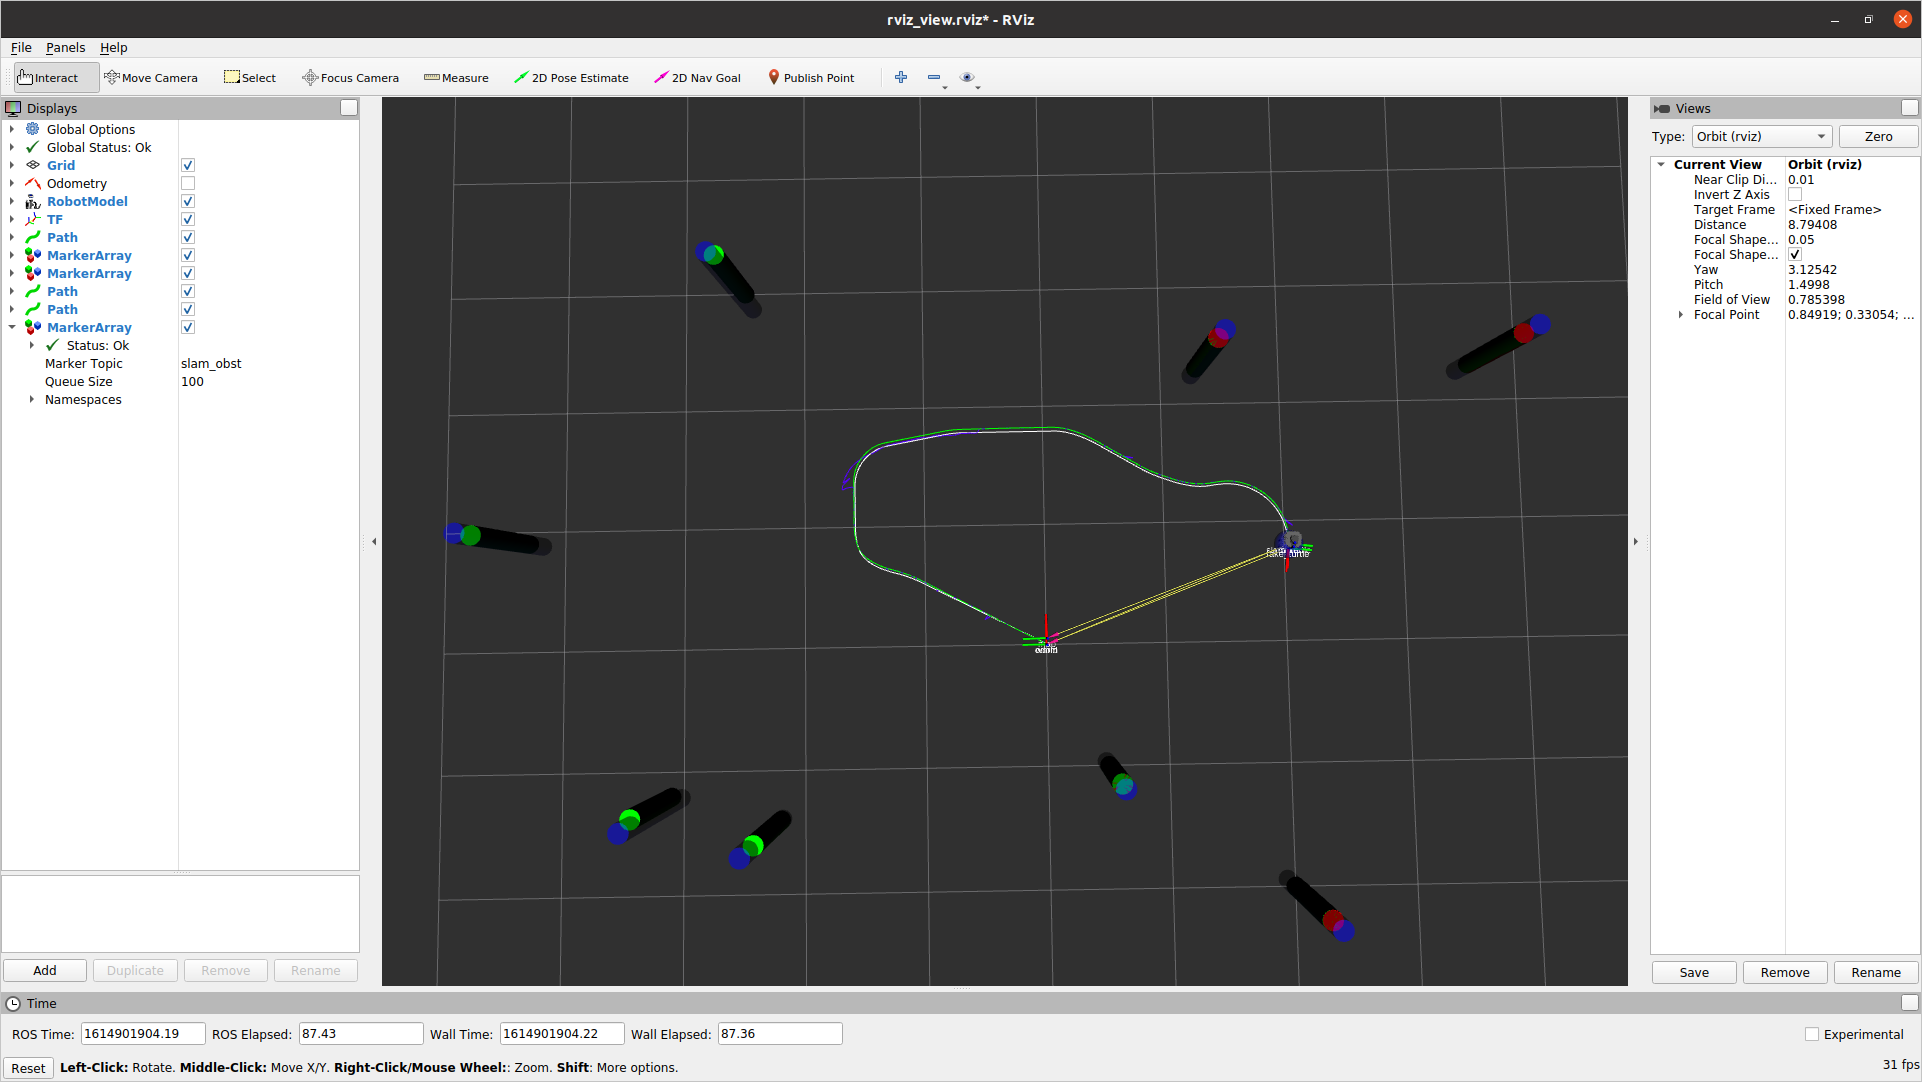
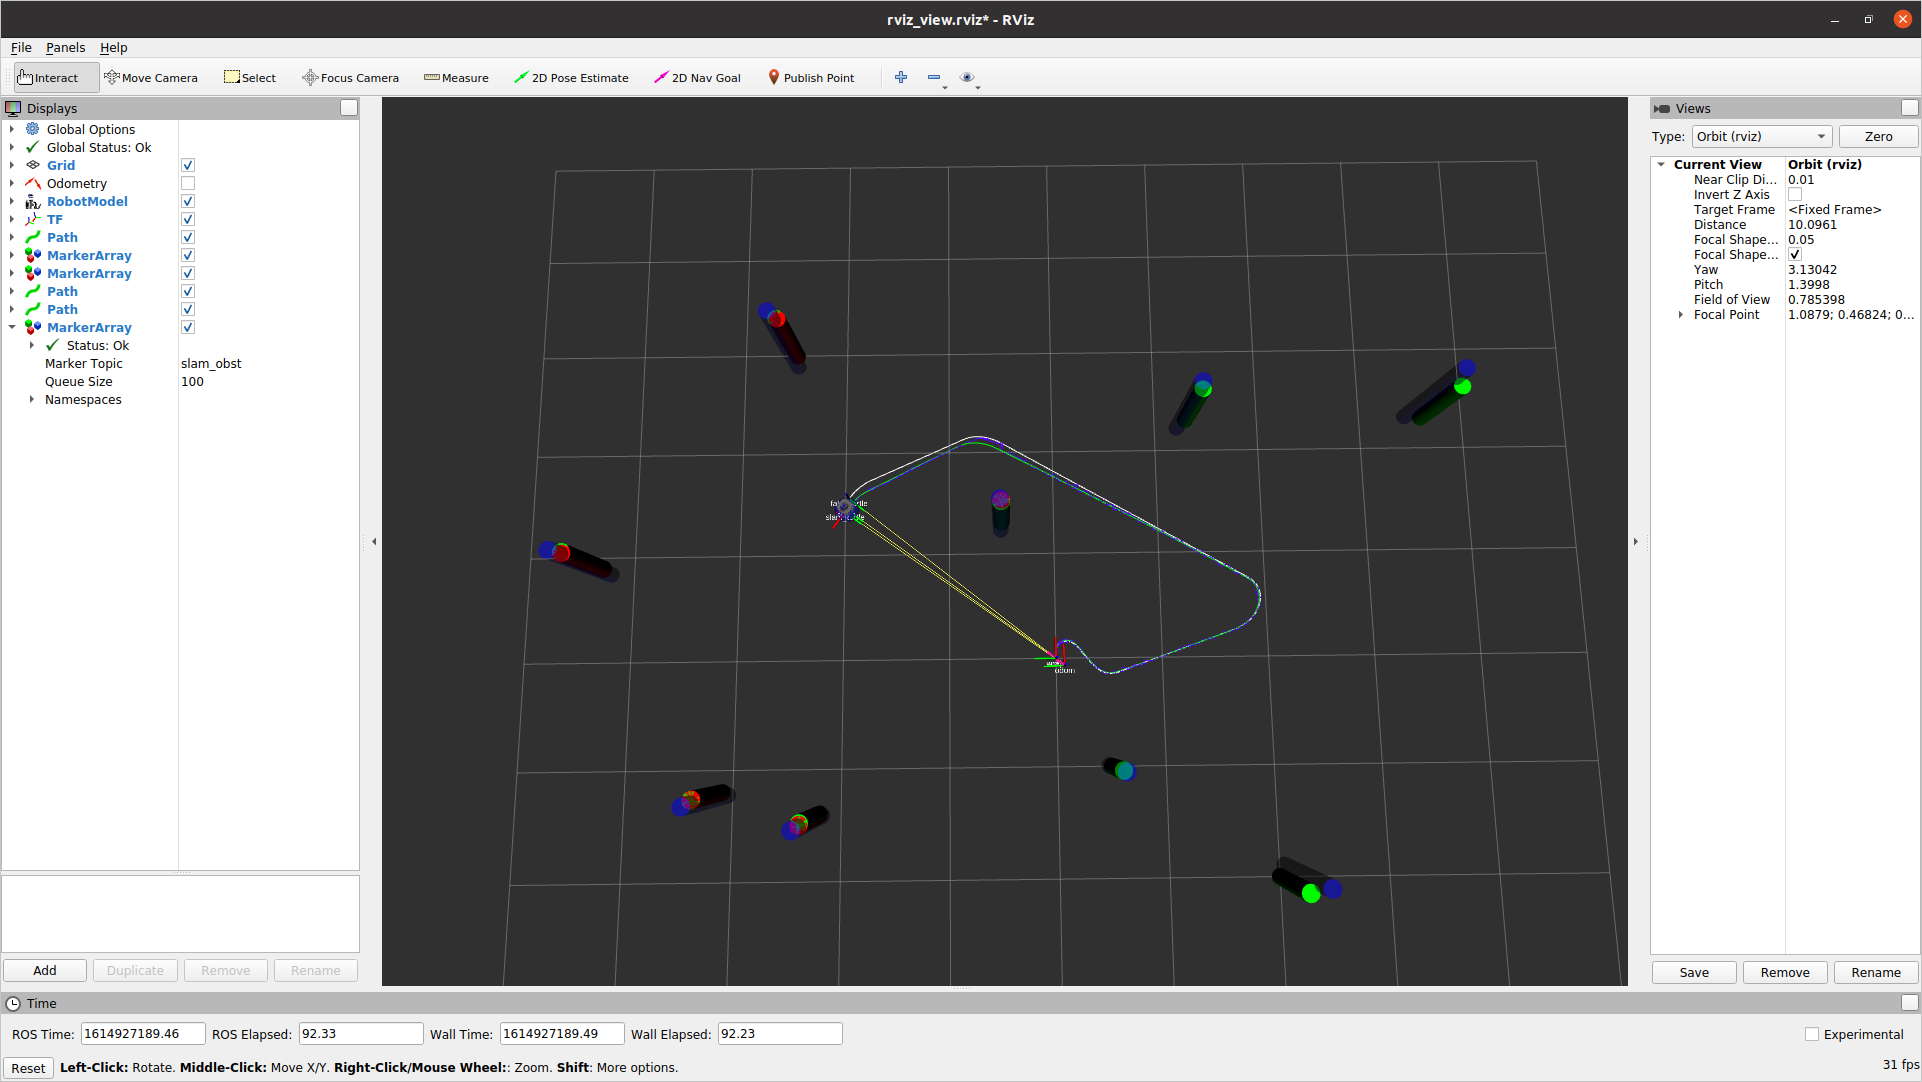
task l - fixed tf

diff --git a/nuslam/src/slam.cpp b/nuslam/src/slam.cpp
@@ -25,17 +25,13 @@
  * + right_wheel_joint (string) ~ name of robot right wheel joint  
  * + left_wheel_joint_slip (string) ~ name of robot left wheel joint with noises  
  * + right_wheel_joint_slip (string) ~ name of robot right wheel joint with noises  
- * + noise_mean (double) ~ mean of Gaussian noise for commanded twist   
- * + noise_variance (double) ~ variance of Gaussian noise for commanded twist  
- * + slip_min (double) ~ minimum uniform radom noise ratio for slipping  
- * + slip_max (double) ~ maximum uniform radom noise ratio for slipping   
  * + x_coords (double list) ~ x locations of obstacles in world  
  * + y_coords (double list) ~ y locations of obstacles in world  
  * + covariance_matrix_0 (double list) ~ first row of covariance matrix of obstacle lcoations   
  * + covariance_matrix_1 (double list)~ second row of covariance matrix of obstacle lcoations  
  * + obst_radius (double) ~ radius of tube obstacle   
- * + obst_max_dist (double) ~ radius of observation area for robot; obstacles within this range will be used to publish sensor information   
- * + tube_var (double) ~ variance of Gaussian noise for obstacles   
+ * + state_var (double) ~ variance of Gaussian noise for Kalman states   
+ * + sensor_var (double) ~ variance of Gaussian noise for sensors   
  * 
  * 
  * 
@@ -73,28 +69,24 @@ class Handler {
     std::string body_frame_id;
     std::string left_wheel_joint;
     std::string right_wheel_joint;
-    double noise_mean = 0.0;
-    double noise_variance = 0.01;
-    double slip_min = -0.05;
-    double slip_max = 0.05;
     std::vector<double> x_coords;
     std::vector<double> y_coords;
     std::vector<std::vector<double>> covariance_matrix = {{1.0, 1.0}, {1.0, 1.0}};;
     double obst_radius = 0.0762;
-    double obst_max_dist = 2.0;
-    double tube_var = 0.1;
     double rad_left_thresh = 0.0;
     double rad_right_thresh = 0.0;
     double rad_left_old = 0.0;
     double rad_right_old = 0.0;
     double rad_left_slip_old = 0.0;
     double rad_right_slip_old = 0.0;
+    double state_var = 0.01;
+    double sensor_var = 0.001;
     arma::vec seen;
     arma::vec init_map_state;
     rigid2d::DiffDrive odom;
     rigid2d::DiffDrive odom_slip;
     kalman::StateVec states;
-    arma::vec world_map_tf = arma::vec {0, 0, 0};
+    arma::vec map_odom_tf = arma::vec {0, 0, 0};
     arma::vec measure_d;
     arma::vec measure_angle;
     arma::vec last_map_state;
@@ -125,7 +117,7 @@ class Handler {
 /// \brief Init Handler class
 /// \param n - slam NodeHandle
 Handler::Handler(ros::NodeHandle & n) : odom(wheel_base/2, wheel_radius), \
-              odom_slip(wheel_base/2, wheel_radius), states(init_map_state, noise_variance, tube_var) {
+              odom_slip(wheel_base/2, wheel_radius), states(init_map_state, state_var, sensor_var) {
   joint_states_sub = n.subscribe("joint_states", 10, &Handler::joint_states_sub_callback, this);
   odom_pub = n.advertise<nav_msgs::Odometry>("odom", 10);
   set_pose_service = n.advertiseService("set_pose", &Handler::set_pose_service_callback, this);
@@ -142,7 +134,7 @@ Handler::Handler(ros::NodeHandle & n) : odom(wheel_base/2, wheel_radius), \
     find_param(n);
 
     // set noise variance for Kalman slam
-    states.set_noises(noise_variance, tube_var);
+    states.set_noises(state_var, sensor_var);
 
     // initialize Kalman slam
     if (init) {
@@ -208,8 +200,8 @@ void Handler::pub_odom() {
   // publish slam turtle path
   path_pose.header.stamp = ros::Time::now();
   arma::vec robot_state = states.get_robot_state();
-  rigid2d::Vector2D v {world_map_tf(1), world_map_tf(2)};
-  rigid2d::Transform2D trans {v, world_map_tf(0)};
+  rigid2d::Vector2D v {map_odom_tf(1), map_odom_tf(2)};
+  rigid2d::Transform2D trans {v, map_odom_tf(0)};
   rigid2d::Vector2D vr {robot_state(1), robot_state(2)};
   rigid2d::Transform2D trans_r {vr, robot_state(0)};
   rigid2d::Transform2D result = trans * trans_r;
@@ -241,17 +233,13 @@ void Handler::find_param(ros::NodeHandle & n) {
   n.param("body_frame_id", body_frame_id, default_base);
   n.param("left_wheel_joint", left_wheel_joint, default_left);
   n.param("right_wheel_joint", right_wheel_joint, default_right);
-  n.param("noise_mean", noise_mean, 0.0);
-  n.param("noise_variance", noise_variance, 0.01);
-  n.param("slip_min", slip_min, -0.05);
-  n.param("slip_max", slip_max, 0.05);
   n.param("x_coords", x_coords, default_x_coords);
   n.param("y_coords", y_coords, default_y_coords);
   n.param("covariance_matrix_0", covariance_matrix[0], default_cm[0]);
   n.param("covariance_matrix_1", covariance_matrix[1], default_cm[1]);
   n.param("obst_radius", obst_radius, 0.0762);
-  n.param("obst_max_dist", obst_max_dist, 2.0);
-  n.param("tube_var", tube_var, 0.01);
+  n.param("state_var", state_var, 0.01);
+  n.param("sensor_var", sensor_var, 0.001);
 
 
   init_map_state = arma::vec (x_coords.size()*2);
@@ -304,14 +292,14 @@ void Handler::joint_states_sub_callback(const sensor_msgs::JointState & msg) {
 
 /// \brief Broadcast the transform between frames:
 ///     odom -> odometry turtle 
-///     world -> map
-///     map -> slam turtle
-///     map -> base_footprint
+///     map -> odom
+///     odom -> slam turtle
+///     odom -> base_footprint
 void Handler::tf_broadcast() {
   // odom -> odometry turtle 
   geometry_msgs::TransformStamped transformStamped;
   transformStamped.header.stamp = ros::Time::now();
-  transformStamped.header.frame_id = odom_frame_id;
+  transformStamped.header.frame_id = "world";
   transformStamped.child_frame_id = "fake_turtle";
   rigid2d::Transform2D config = odom.config();
   transformStamped.transform.translation.x = config.x();
@@ -327,12 +315,12 @@ void Handler::tf_broadcast() {
 
   // world -> map
   transformStamped.header.stamp = ros::Time::now();
-  transformStamped.header.frame_id = "world";
-  transformStamped.child_frame_id = "map";
-  transformStamped.transform.translation.x = world_map_tf(1);
-  transformStamped.transform.translation.y = world_map_tf(2);
+  transformStamped.header.frame_id = "map";
+  transformStamped.child_frame_id = "odom";
+  transformStamped.transform.translation.x = map_odom_tf(1);
+  transformStamped.transform.translation.y = map_odom_tf(2);
   transformStamped.transform.translation.z = 0.0;
-  q.setRPY(0, 0,  world_map_tf(0));
+  q.setRPY(0, 0,  map_odom_tf(0));
   transformStamped.transform.rotation.x = q.x();
   transformStamped.transform.rotation.y = q.y();
   transformStamped.transform.rotation.z = q.z();
@@ -341,7 +329,7 @@ void Handler::tf_broadcast() {
 
   // map -> slam turtle
   transformStamped.header.stamp = ros::Time::now();
-  transformStamped.header.frame_id = "map";
+  transformStamped.header.frame_id = "odom";
   transformStamped.child_frame_id = "slam_turtle";
   arma::vec robot_state = states.get_robot_state();
   transformStamped.transform.translation.x = robot_state(1);
@@ -356,7 +344,7 @@ void Handler::tf_broadcast() {
 
   // map -> base_footprint
   transformStamped.header.stamp = ros::Time::now();
-  transformStamped.header.frame_id = "map";
+  transformStamped.header.frame_id = "odom";
   transformStamped.child_frame_id = body_frame_id;
   transformStamped.transform.translation.x = robot_state(1);
   transformStamped.transform.translation.y = robot_state(2);
@@ -389,7 +377,7 @@ void Handler::pub_slam_obst_marker() {
   arma::vec map_state = states.get_map_state();
   for (unsigned i = 0; i < map_state.size()/2; i++) {
     visualization_msgs::Marker marker;
-    marker.header.frame_id = "map";
+    marker.header.frame_id = "odom";
     marker.header.stamp = ros::Time();
     marker.ns = "slam_obst";
     marker.id = i;
@@ -430,11 +418,11 @@ void Handler::align_tf() {
   rigid2d::Transform2D T_map_robot { v, robot_state(0)};
   rigid2d::Transform2D config = odom_slip.config();
 
-  world_map_tf = {0, 0, 0};
-  world_map_tf.fill(0);
+  map_odom_tf = {0, 0, 0};
+  map_odom_tf.fill(0);
 
-  // T_odom_map = config * T_map_robot.inv();
-  // ROS_INFO_STREAM("T_odom_map = " << T_odom_map);
+  T_odom_map = config * T_map_robot.inv();
+  // ROS_INFO_STREAM("T_odom_map = " << T_odom_map.inv());
 
   unsigned n = 0;
   bool first_obst = true;
@@ -451,6 +439,7 @@ void Handler::align_tf() {
 
       
       if (j >= measure_d.size() && first_obst) {   // only one obstacle is seen
+          ROS_INFO_STREAM("one obst");
           mx = map_state(2*i);
           my = map_state(2*i+1);
           ox = x_coords[i];
@@ -482,9 +471,9 @@ void Handler::align_tf() {
       rigid2d::Transform2D To {v_odom, odom_ang};
       rigid2d::Transform2D result =  To * Tm.inv();
 
-      world_map_tf(0) += result.theta();
-      world_map_tf(1) += result.x();
-      world_map_tf(2) += result.y();
+      map_odom_tf(0) += result.theta();
+      map_odom_tf(1) += result.x();
+      map_odom_tf(2) += result.y();
 
       first_obst = false;
     }
@@ -492,11 +481,11 @@ void Handler::align_tf() {
 
   // average transform
   if (n > 0) {
-    world_map_tf(0) /= n;
-    world_map_tf(1) /= n;
-    world_map_tf(2) /= n;
+    map_odom_tf(0) /= n;
+    map_odom_tf(1) /= n;
+    map_odom_tf(2) /= n;
   }
-  // ROS_INFO_STREAM(" === Final tf = " << world_map_tf.t());
+  // ROS_INFO_STREAM(" === Final tf = " << map_odom_tf.t());
 }
 
 /// \brief Callback function for fake_measurement subscriber

diff --git a/nurtlesim/src/tube_world.cpp b/nurtlesim/src/tube_world.cpp
@@ -212,7 +212,7 @@ void Handler::pub_obst_marker() {
   visualization_msgs::MarkerArray marker_array;
   for (unsigned i = 0; i < x_coords.size(); i++) {
     visualization_msgs::Marker marker;
-    marker.header.frame_id = "odom";
+    marker.header.frame_id = "world";
     marker.header.stamp = ros::Time();
     marker.ns = "real";
     marker.id = i;
@@ -261,7 +261,7 @@ void Handler::tf_broadcast() {
   geometry_msgs::TransformStamped tmp;
   tmp.header.stamp = ros::Time::now();
   tmp.header.frame_id = "world";
-  tmp.child_frame_id = "odom";
+  tmp.child_frame_id = "map";
   tmp.transform.translation.x = 0.0;
   tmp.transform.translation.y = 0.0;
   tmp.transform.translation.z = 0.0;
@@ -276,7 +276,7 @@ void Handler::tf_broadcast() {
 void Handler::pub_path() {
   geometry_msgs::PoseStamped path_pose;
   path_pose.header.stamp = ros::Time::now();
-  path_pose.header.frame_id = "odom";
+  path_pose.header.frame_id = "world";
   rigid2d::Transform2D config = fake_slip.config();
   path_pose.pose.position.x = config.x();
   path_pose.pose.position.y = config.y();
@@ -303,7 +303,7 @@ void Handler::pub_fake_sensor() {
   std_msgs::Float64MultiArray float_array;
   for (unsigned i = 0; i < x_coords.size(); i++) {
     visualization_msgs::Marker marker;
-    marker.header.frame_id = "odom";
+    marker.header.frame_id = "world";
     marker.header.stamp = ros::Time();
     marker.ns = "fake";
     marker.id = i;
@@ -366,7 +366,7 @@ void Handler::check_collision(double period_secs) {
   // simulate robot as a sphere 
   visualization_msgs::MarkerArray marker_array;
   visualization_msgs::Marker marker;
-  marker.header.frame_id = "odom";
+  marker.header.frame_id = "world";
   marker.header.stamp = ros::Time();
   marker.ns = "fake_slip";
   marker.id = 0;

diff --git a/nuslam/README.md b/nuslam/README.md
@@ -12,9 +12,12 @@ displayed based on calculated pose.
 Path for fake_odom turtle is shown in white line. Path for the true turtle path is shown in green line. Path found from Kalman Filter is shown in blue line. 
 Obstacles at known locations are shown as green tubes. Obstacles with added Gaussian noise are shown as red tubes. Obstacles found from Kalman Filter are shown as blue tubes.   
 
+# Configuration
+`state_var` - variance of Gaussian noise for Kalman states   
+`sensor_var` - variance of Gaussian noise for sensors   
 
 # Testing  
-Screenshots of rviz after robot driving in the simulated world is shown below. The twist noise is N(0, 0.01). The slip noise ratio is -0.01 to 0.01. The obstacle noise if N(0, 0.01). Observation distance of robot is 3.0.   
+Screenshots of rviz after robot driving in the simulated world is shown below. The state noise is N(0, 0.01). The sensor noise if N(0, 0.01). Observation distance of robot is 3.0.   
 ![slam_result](images/slam_result.png)  
 ![slam_result_closer_look](images/slam_result_closer_look.png)  
 
